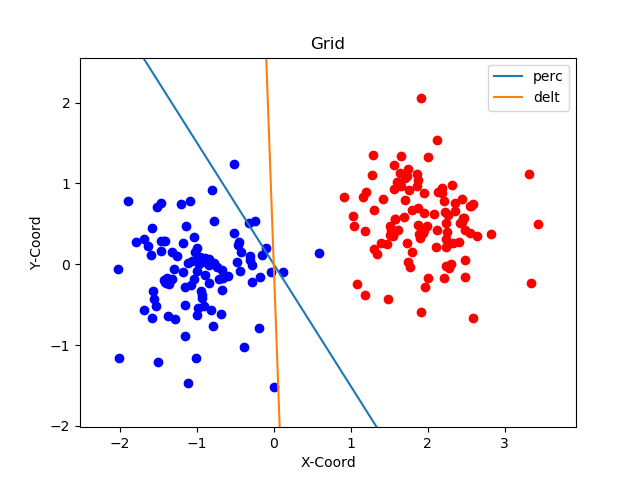
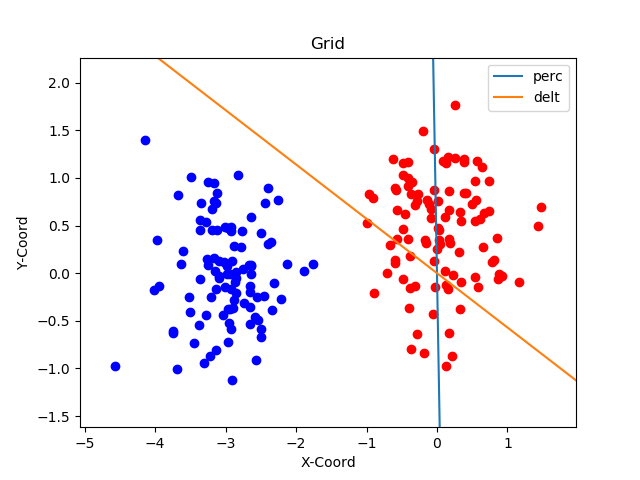
3_1 stuff

diff --git a/lab1/3.1.3.nonlinear.exploration.py b/lab1/3.1.3.nonlinear.exploration.py
@@ -3,6 +3,7 @@ import matplotlib.pyplot as plt
 import _3_1_1_lin_seperable_data
 import _3_1_2_single_layer_perceptron
 import utility
+import time
 
 
 def generateNonlinearData(features, mean, sigma, n):
@@ -19,12 +20,14 @@ def generateNonlinearData(features, mean, sigma, n):
 
     return distA
 
-if __name__ == "__main__":
+def main():
 
     eta = 0.001
     ndata = 100
     subsampleCase = 3
-    part = 1
+    part = 2
+
+    plt.ion()
 
     # 3.1.3 first part (Overlapping clouds)
 
@@ -35,9 +38,9 @@ if __name__ == "__main__":
         A = _3_1_1_lin_seperable_data.generateData(2, mA, sigmaA, ndata)
         B = _3_1_1_lin_seperable_data.generateData(2, mB, sigmaB, ndata)
 
-        #plt.plot(A[0],A[1],"bo")
-        #plt.plot(B[0],B[1],"ro")
-        #plt.show()
+        plt.plot(A[0],A[1],"bo")
+        plt.plot(B[0],B[1],"ro")
+        plt.show()
 
 
     # 3.1.3 second part (split class A into 2 parts)
@@ -68,7 +71,6 @@ if __name__ == "__main__":
 
         #TODO: apply to entire Class A not A[0]
 
-        print(A.shape)
 
         #A_g = greater then 0 in A[0,:]
         A_g = A[:,:50]
@@ -84,72 +86,135 @@ if __name__ == "__main__":
 
 
 
-    for j in range(4):
-        if(j == 0):
-            X = np.hstack([A_0, B_0])
-            T_A, T_B = np.ones(A_0.shape[1]), -1 * np.ones(B_0.shape[1])
+        X_0 = np.hstack([A_0, B_0])
+        T_A_0, T_B_0 = np.ones(A_0.shape[1]), -1 * np.ones(B_0.shape[1])
 
-        elif(j == 1):
-            X = np.hstack([A_1, B_1])
-            T_A, T_B = np.ones(A_1.shape[1]), -1 * np.ones(B_1.shape[1])
-        elif(j == 2):
-            X = np.hstack([A_2, B_2])
-            T_A, T_B = np.ones(A_2.shape[1]), -1 * np.ones(B_2.shape[1])
-        else:
-            X = np.hstack([A_3, B_3])
-            T_A, T_B = np.ones(A_3.shape[1]), -1 * np.ones(B_3.shape[1])
+        X_1 = np.hstack([A_1, B_1])
+        T_A_1, T_B_1 = np.ones(A_1.shape[1]), -1 * np.ones(B_1.shape[1])
+
+        X_2 = np.hstack([A_2, B_2])
+        T_A_2, T_B_2 = np.ones(A_2.shape[1]), -1 * np.ones(B_2.shape[1])
+
+        X_3 = np.hstack([A_3, B_3])
+        T_A_3, T_B_3 = np.ones(A_3.shape[1]), -1 * np.ones(B_3.shape[1])
 
 
 
 
         # Add biasing term
-        X = np.vstack([X, np.ones(X.shape[1])])
+        X_0 = np.vstack([X_0, np.ones(X_0.shape[1])])
+        X_1 = np.vstack([X_1, np.ones(X_1.shape[1])])
+        X_2 = np.vstack([X_2, np.ones(X_2.shape[1])])
+        X_3 = np.vstack([X_3, np.ones(X_3.shape[1])])
 
         # Targets
-        T = np.hstack([T_A, T_B])
-        W = _3_1_2_single_layer_perceptron.initializeWeights(X.shape[0], 1)
+        T_0 = np.hstack([T_A_0, T_B_0])
+        T_1 = np.hstack([T_A_1, T_B_1])
+        T_2 = np.hstack([T_A_2, T_B_2])
+        T_3 = np.hstack([T_A_3, T_B_3])
+
+
+        W_0 = _3_1_2_single_layer_perceptron.initializeWeights(X_0.shape[0], 1)
+        W_1 = _3_1_2_single_layer_perceptron.initializeWeights(X_1.shape[0], 1)
+        W_2 = _3_1_2_single_layer_perceptron.initializeWeights(X_2.shape[0], 1)
+        W_3 = _3_1_2_single_layer_perceptron.initializeWeights(X_3.shape[0], 1)
         # print (W.shape)
 
-        losses = []
+        losses_0 = []
+        losses_1 = []
+        losses_2 = []
+        losses_3 = []
 
-        exit()
-        #todo test error against complete data
+        start = time.time()
 
         #train in batch mode
         for i in range(2):
-            for _ in range(ndata):
+           for _ in range(ndata):
 
-                Y = _3_1_2_single_layer_perceptron.forwardPass(W, X)
+               Y_0 = _3_1_2_single_layer_perceptron.forwardPass(W_0, X_0)
+               Y_1 = _3_1_2_single_layer_perceptron.forwardPass(W_1, X_1)
+               Y_2 = _3_1_2_single_layer_perceptron.forwardPass(W_2, X_2)
+               Y_3 = _3_1_2_single_layer_perceptron.forwardPass(W_3, X_3)
 
-                error = _3_1_2_single_layer_perceptron.error(T,Y)
-                print("part1.error: ", _, " ", error)
-                losses.append(error)
-
-                dW = -eta * np.matmul((Y - T), np.transpose(X))
-
-                W = W + dW
-
-
+               error_0 = _3_1_2_single_layer_perceptron.error(T_0,Y_0)
+               error_1 = _3_1_2_single_layer_perceptron.error(T_1,Y_1)
+               error_2 = _3_1_2_single_layer_perceptron.error(T_2,Y_2)
+               error_3 = _3_1_2_single_layer_perceptron.error(T_3,Y_3)
 
 
 
+               #print("part1.error: ", _, " ", error)
+               losses_0.append(error_0)
+               losses_1.append(error_1)
+               losses_2.append(error_2)
+               losses_3.append(error_3)
 
-        #plt.plot(A[0], A[1], "ro", B[0], B[1], "bo")
+               dW_0 = -eta * np.matmul((Y_0 - T_0), np.transpose(X_0))
+               dW_1 = -eta * np.matmul((Y_1 - T_1), np.transpose(X_1))
+               dW_2 = -eta * np.matmul((Y_2 - T_2), np.transpose(X_2))
+               dW_3 = -eta * np.matmul((Y_3 - T_3), np.transpose(X_3))
 
-        def line(x, normal):
-            # 0 = w0x + w1y + w2
-            # y = (-w0x - w2) / w1
-            return (-normal[:,0] * x - normal[:,2]) / normal[:,1]
+               W_0 = W_0 + dW_0
+               W_1 = W_1 + dW_1
+               W_2 = W_2 + dW_2
+               W_3 = W_3 + dW_3
 
-        maxX = X[:, np.argmax(X[1])][0]
-        minX = X[:, np.argmin(X[1])][0]
 
-        x = np.arange(minX, maxX, 0.05)
+               #
+               def line(x, normal):
+                   # 0 = w0x + w1y + w2
+                   # y = (-w0x - w2) / w1
+                   return (-normal[:, 0] * x - normal[:, 2]) / normal[:, 1]
 
-        #plt.plot(x, line(x, W))
 
-        #plt.show()
+               X = np.hstack([X_0,X_1,X_2,X_3])
 
-        utility.plotLearningCurve((("train ", j) ,losses))
+               maxX = X[:, np.argmax(X[0])][0] + 0.5
+               minX = X[:, np.argmin(X[0])][0] - 0.5
+               maxY = X[:, np.argmax(X[1])][1] + 0.5
+               minY = X[:, np.argmin(X[1])][1] - 0.5
 
+               __x = np.arange(minX, maxX, 0.05)
+
+
+               #        plt.plot(x_1, line(x_1, W_1))
+               #       plt.plot(x_2, line(x_2, W_2))
+               #      plt.plot(x_3, line(x_3, W_3))
+
+               def plot():
+                   plt.clf()
+                   plt.ylim(minY, maxY)
+                   plt.xlim(minX, maxX)
+                   plt.plot(A[0], A[1], "ro", B[0], B[1], "bo")
+                   plt.plot(__x, _3_1_2_single_layer_perceptron.decisionBoundary(__x, W_0), label="25 each")
+                   plt.plot(__x, _3_1_2_single_layer_perceptron.decisionBoundary(__x, W_1), label="50 A")
+                   plt.plot(__x, _3_1_2_single_layer_perceptron.decisionBoundary(__x, W_2), label="50 B")
+                   plt.plot(__x, _3_1_2_single_layer_perceptron.decisionBoundary(__x, W_3), label="splitted A")
+                   plt.title("Grid")
+                   plt.xlabel("X-Coord")
+                   plt.ylabel("Y-Coord")
+                   plt.legend()
+                   plt.show()
+                   plt.pause(0.000001)
+
+
+               plot()
+
+        elapsed = time.time() - start
+
+        print(f"\nElapsed: {elapsed}")
+
+        plt.ioff()
+        plot()
+
+    return losses_0, losses_1, losses_2, losses_3
+
+
+if __name__ == "__main__":
+    # print ("Mean Epochs:", np.mean([len(main()) for i in range(500)]))
+    losses_0, losses_1, losses_2, losses_3 = main()
+    import utility
+
+
+    utility.plotLearningCurves((["25 each", "50 A", "50 B", "splitted A"], losses_0, losses_1, losses_2, losses_3))
 

diff --git a/lab1/_3_1_2_single_layer_perceptron.py b/lab1/_3_1_2_single_layer_perceptron.py
@@ -63,8 +63,8 @@ def learnDeltaSequential(eta, X, T, W):
 def main():
 
     # Training Data sets A and B
-    mA, sigmaA = [2.0, 0.5], 0.5
-    mB, sigmaB = [-1.0, 0.0], 0.5
+    mA, sigmaA = [0.0, 0.5], 0.5
+    mB, sigmaB = [-3.0, 0.0], 0.5
 
     A = _3_1_1_lin_seperable_data.generateData(2, mA, sigmaA, 100)
     B = _3_1_1_lin_seperable_data.generateData(2, mB, sigmaB, 100)
@@ -115,25 +115,25 @@ def main():
 
         e_perc, dW_perc = learnPerceptron(eta, X, T, W_perc)
         e_delt, dW_delt = learnDeltaBatch(eta, X, T, W_delt)
-        #e_delt_seq, dW_delt_seq = learnDeltaSequential(eta, X, T, W_delt_seq)
+       # e_delt_seq, dW_delt_seq = learnDeltaSequential(eta, X, T, W_delt_seq)
 
-       # print (dW_perc)
-       # print(f"Epoch: {epoch}\nError_perc: {e_perc}")
+        print (dW_perc)
+        print(f"Epoch: {epoch}\nError_perc: {e_perc}")
        # print (dW_delt)
        # print(f"Epoch: {epoch}\nError_delt: {e_delt}")
 
         # update weights
         W_perc = W_perc + dW_perc
         W_delt = W_delt + dW_delt
-       # W_delt_seq = W_delt_seq + dW_delt_seq
+        # W_delt_seq = W_delt_seq + dW_delt_seq
 
         #remove bias
         W_delt[0][2] = 0
         W_perc[0][2] = 0
 
-        losses_perc.append(e_perc)
+        # losses_perc.append(e_perc)
         losses_delt.append(e_delt)
-       # losses_delt_seq.append(e_delt_seq)
+        losses_perc.append(e_perc)
 
         if np.all((np.abs(dW_delt) < convergence_threshold) & (np.abs(dW_perc) < convergence_threshold)) :
             break
@@ -167,4 +167,7 @@ if __name__ == "__main__":
     # print ("Mean Epochs:", np.mean([len(main()) for i in range(500)]))
     losses_1, losses_2 = main()
     import utility
+
+    #utility.plotLearningCurves((["train_delt_seq"], losses_1))
+
     utility.plotLearningCurves((["train_perc", "train_delt"], losses_1, losses_2))
